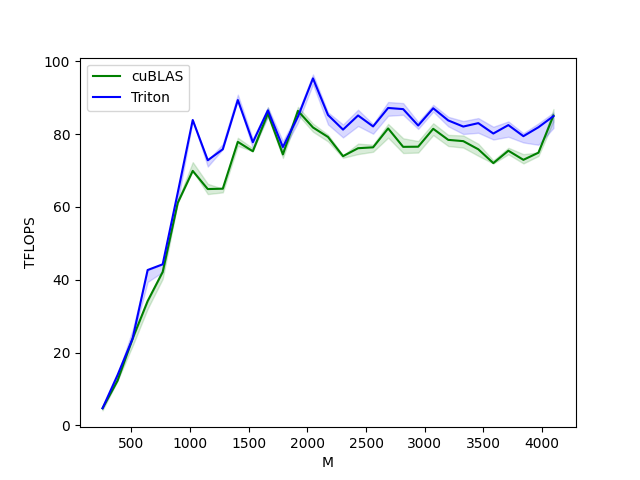
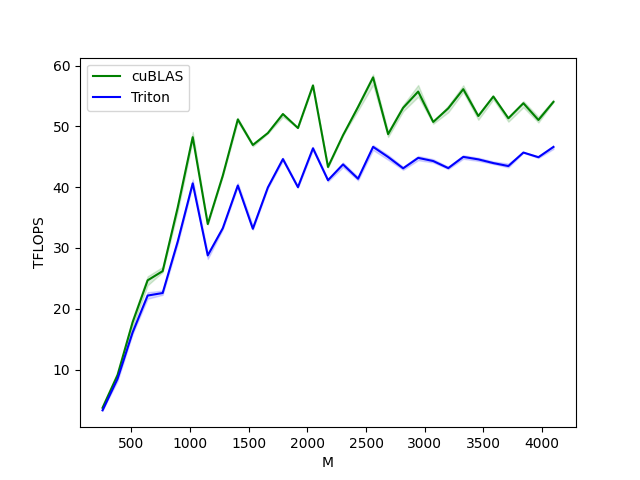
set exp env as 2080ti to run and mistach float 16

diff --git a/fig/fig/fig/results.html b/fig/fig/fig/results.html
@@ -1,3 +1,4 @@
 <html><body>
-<image src="softmax-performance.png"/>
+<image src="matmul-performance-fp16.png"/>
+<image src="matmul-performance-fp8.png"/>
 </body></html>

diff --git a/fig/fig/fig/fig/results.html b/fig/fig/fig/fig/results.html
@@ -1,0 +1,3 @@
+<html><body>
+<image src="softmax-performance.png"/>
+</body></html>
